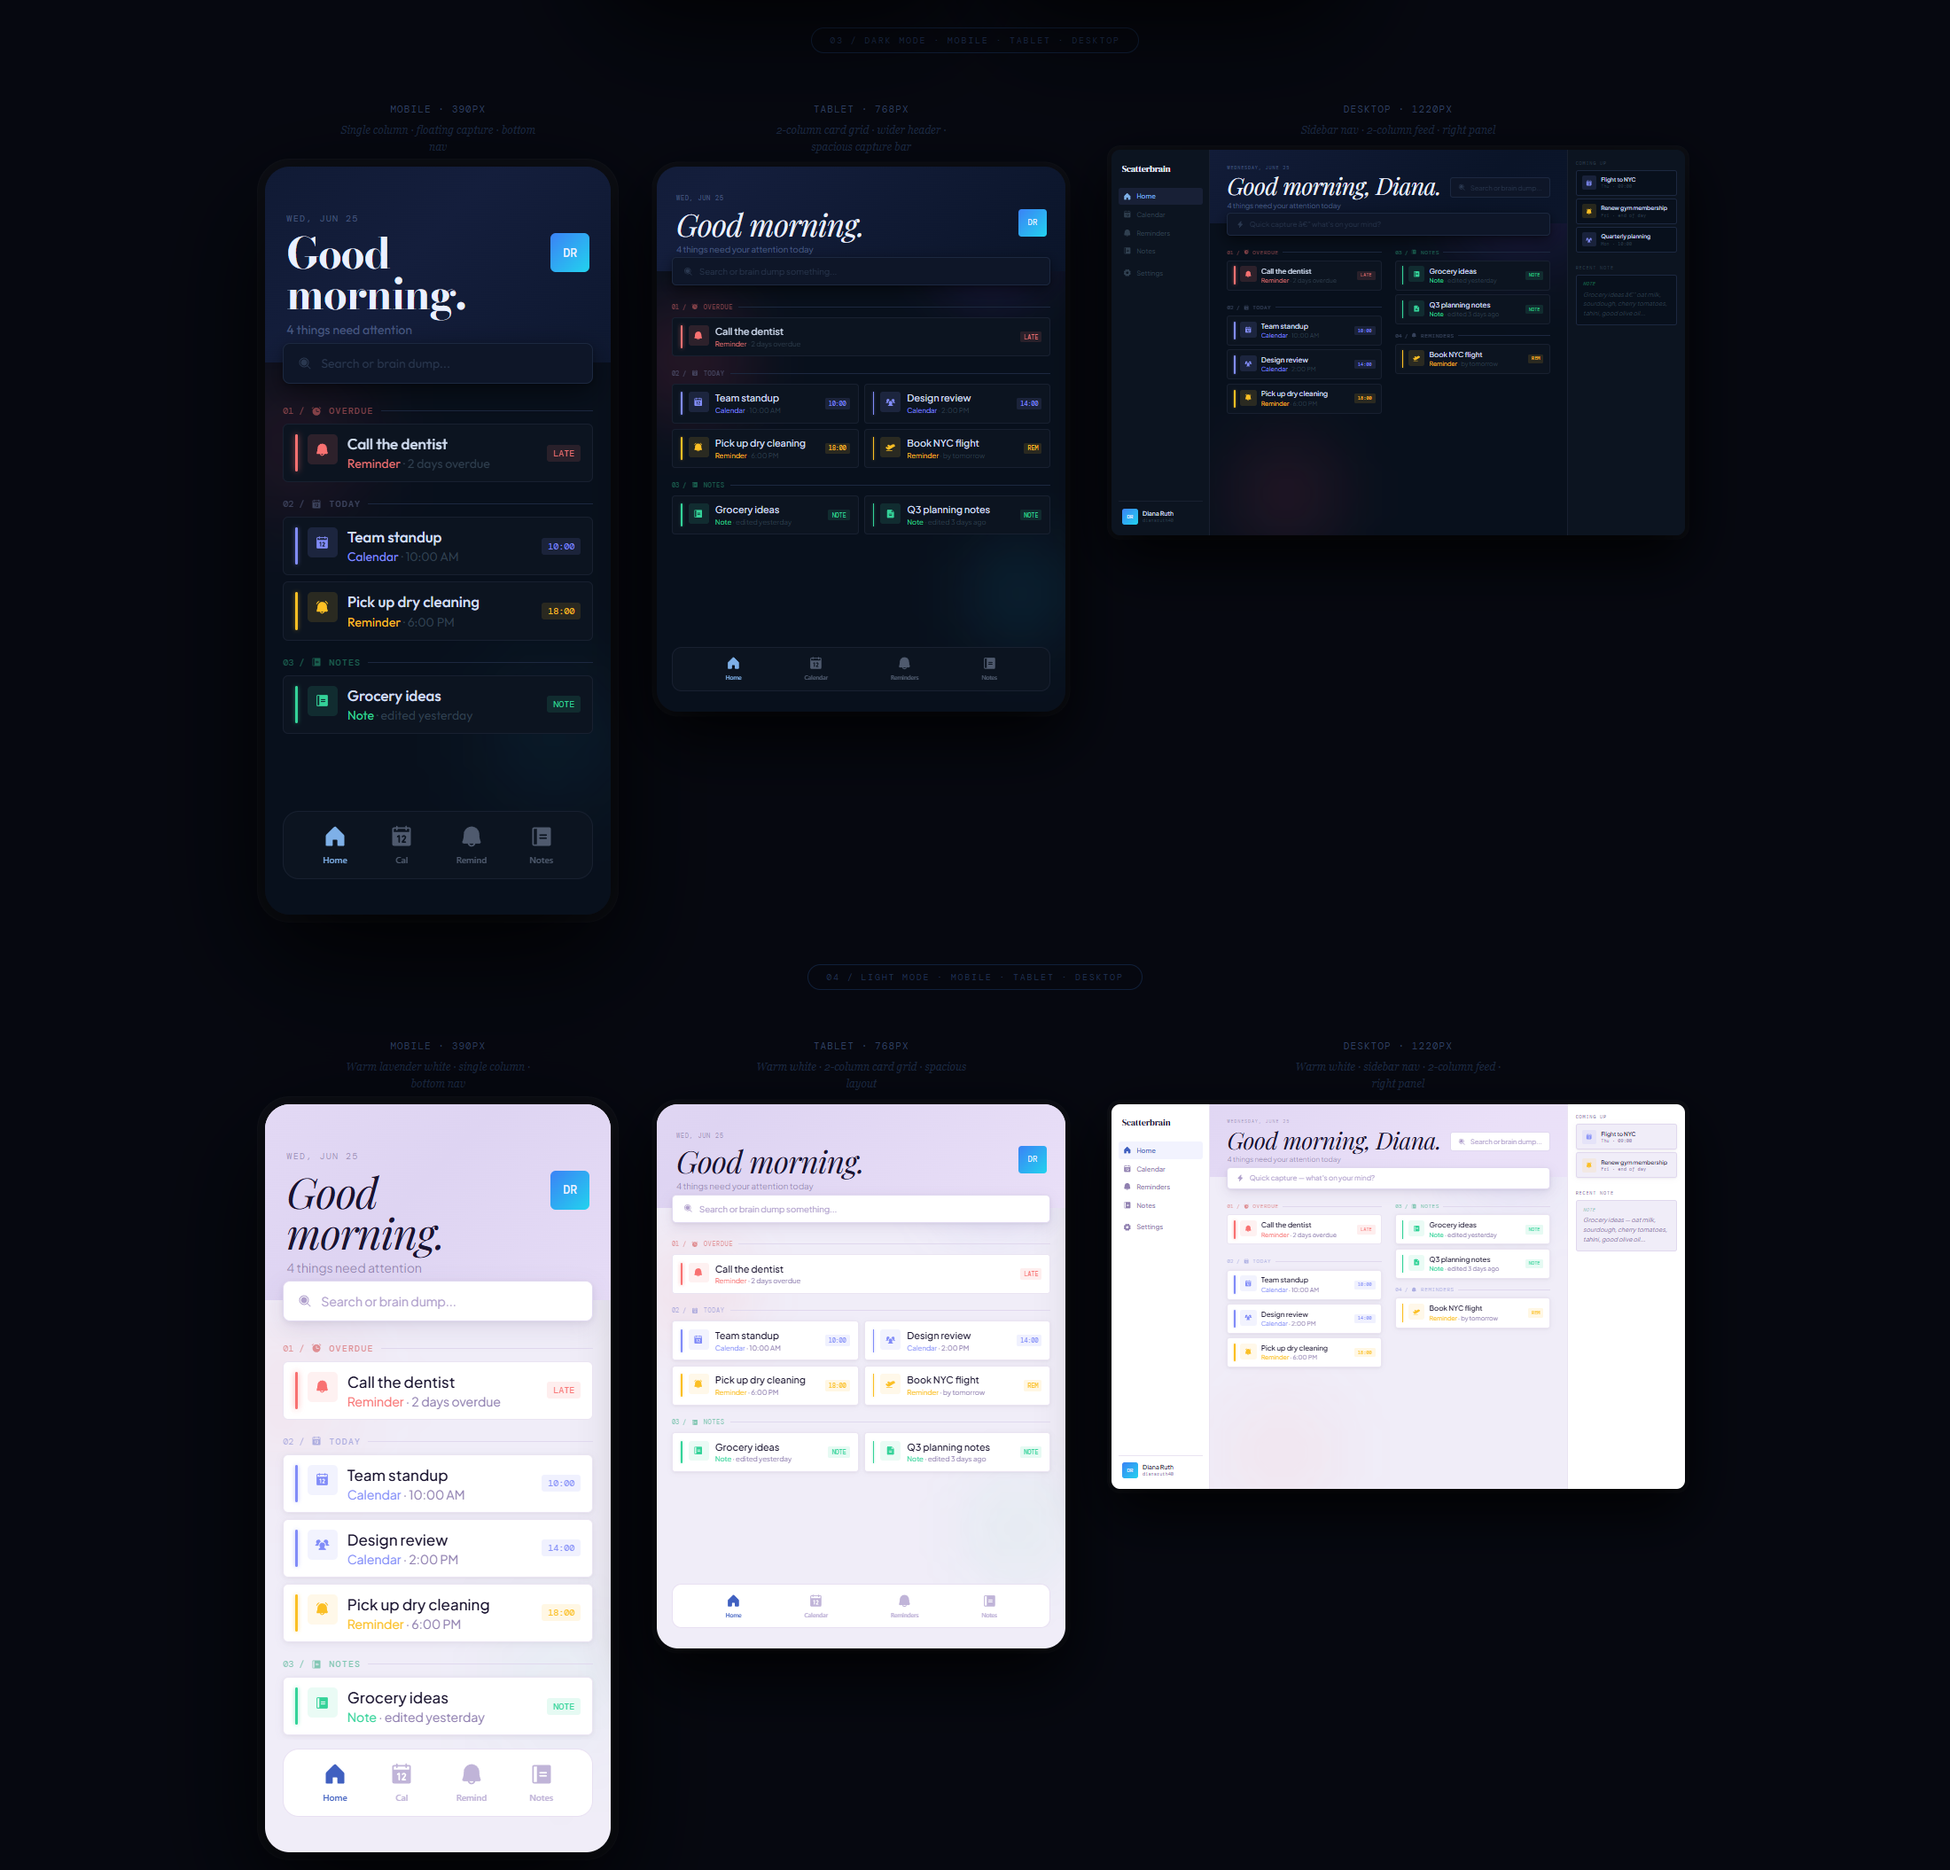
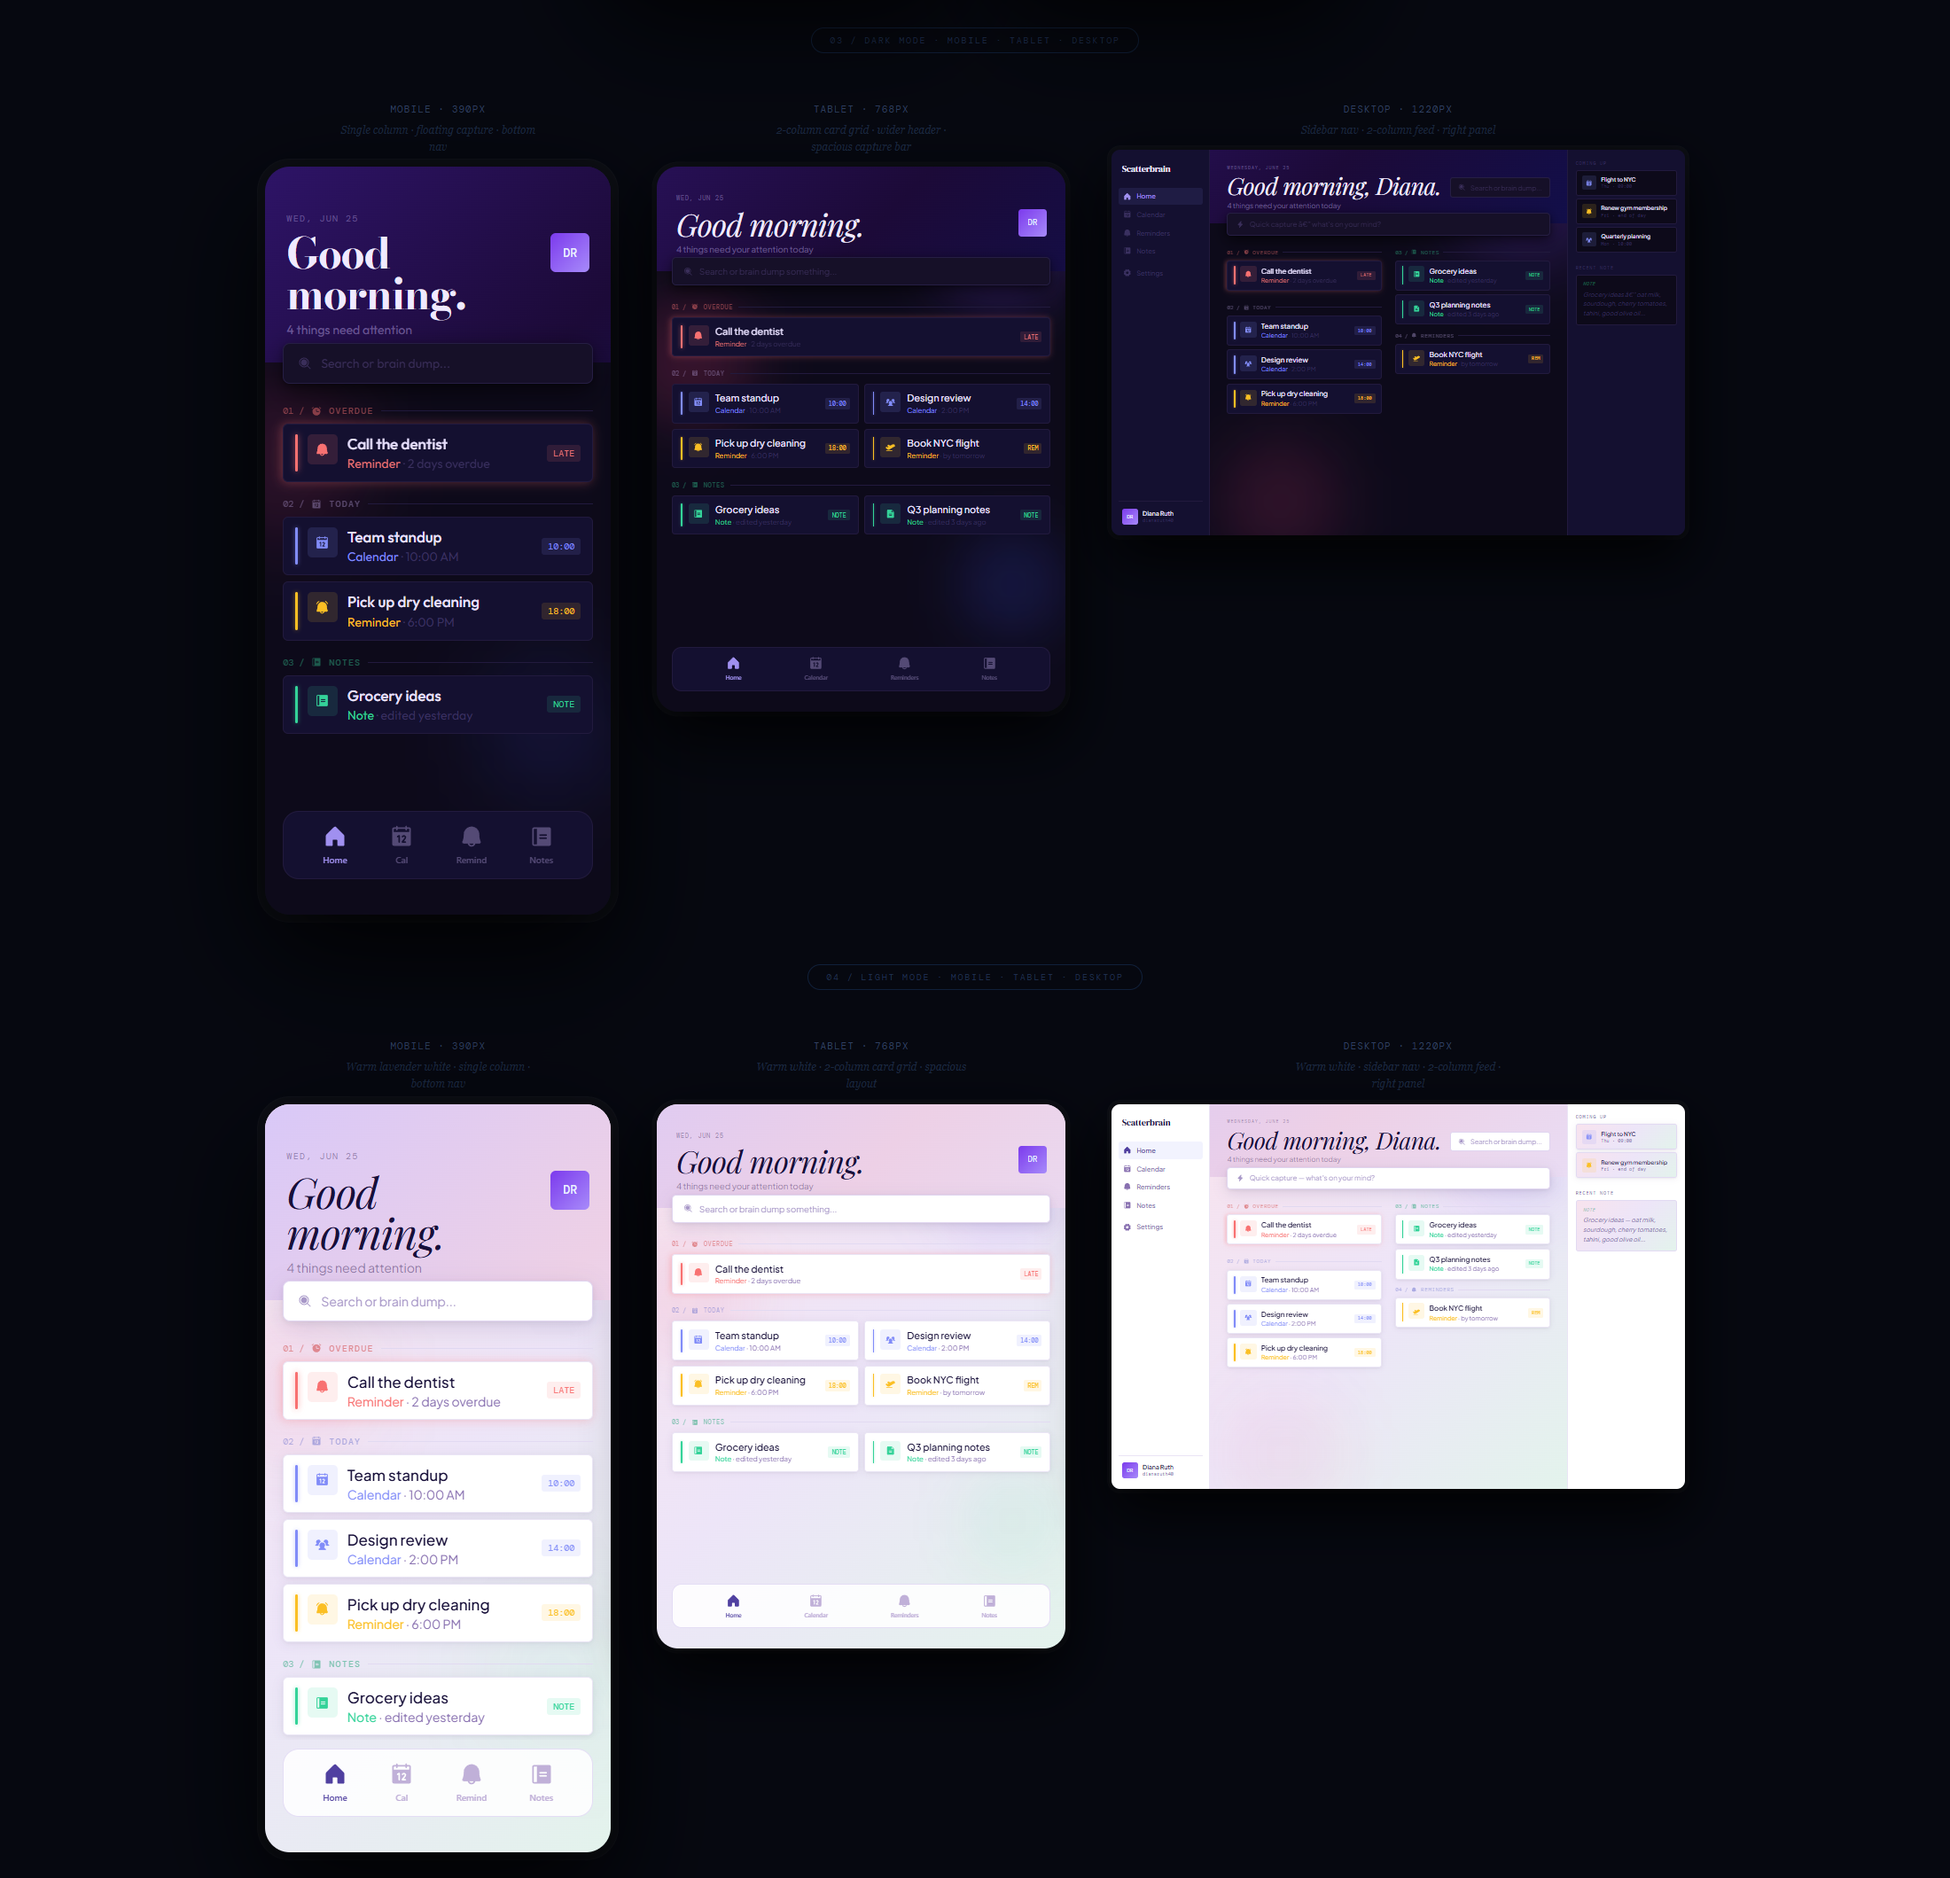
SB-1: Pivot to alt-d color scheme — deep purple dark + gradient light
Swaps both theme palettes to match the alt-d direction: dark mode shifts
from midnight slate to deep purple-black (#0D0A1A) with a violet/indigo
header gradient and vivid purple/rose blobs; light mode gains a 3-stop
rose→lavender→mint gradient background with a more saturated header.
Updates composite renders across all six views.

diff --git a/mockups/directions.html b/mockups/directions.html
@@ -87,80 +87,80 @@ body {
    DARK THEME TOKENS
    â•â•â•â•â•â•â•â•â•â•â•â•â•â•â•â•â•â•â•â•â•â•â•â•â•â•â•â•â•â•â•â•â•â•â•â•â•â•â•â•â•â•â•â•â•â•â•â•â•â•â•â•â•â•â• */
 .dark {
-  --bg:           #08101C;
-  --hdr-a:        #0A1428;
-  --hdr-b:        #141E3C;
-  --hdr-c:        #0E1830;
-  --greeting:     #EAF0FF;
-  --sub:          rgba(140,160,210,.45);
-  --date-c:       rgba(140,160,210,.4);
-  --cap-bg:       #0E1628;
-  --cap-bdr:      #1C2840;
-  --cap-ph:       #2A3850;
-  --card-bg:      #0C1420;
-  --card-bdr:     #182030;
-  --card-title:   #D0DCF0;
-  --card-meta:    #304050;
-  --sec-line:     #1C2840;
+  --bg:           #0D0A1A;
+  --hdr-a:        #1C0A38;
+  --hdr-b:        #2E1468;
+  --hdr-c:        #0E1050;
+  --greeting:     #F0EAFF;
+  --sub:          rgba(180,160,220,.5);
+  --date-c:       rgba(180,160,220,.4);
+  --cap-bg:       #161028;
+  --cap-bdr:      #261E44;
+  --cap-ph:       #3A2E5A;
+  --card-bg:      #141030;
+  --card-bdr:     #221A3E;
+  --card-title:   #E8E0FF;
+  --card-meta:    #3A3060;
+  --sec-line:     #221A3E;
   --sec-ov:       rgba(248,113,113,.5);
-  --sec-td:       rgba(140,160,210,.35);
+  --sec-td:       rgba(180,160,220,.4);
   --sec-em:       rgba(52,211,153,.4);
-  --nav-bg:       #0C1420;
-  --nav-bdr:      #182030;
-  --nav-on:       #7EB0E8;
-  --nav-off:      rgba(160,175,205,.45);
-  --blob1:        rgba(99,60,200,.2);
-  --blob2:        rgba(200,60,90,.14);
-  --blob3:        rgba(30,160,210,.1);
-  --av-a:         #3B82F6;
-  --av-b:         #22D3EE;
-  --input-ico:    #2A3850;
+  --nav-bg:       #141030;
+  --nav-bdr:      #221A3E;
+  --nav-on:       #A090F0;
+  --nav-off:      rgba(180,160,220,.4);
+  --blob1:        rgba(120,60,240,.28);
+  --blob2:        rgba(220,60,120,.2);
+  --blob3:        rgba(60,80,240,.18);
+  --av-a:         #7C3AED;
+  --av-b:         #A78BFA;
+  --input-ico:    #3A2E5A;
   --ib-ov:        rgba(248,113,113,.14);
   --ib-cal:       rgba(129,140,248,.14);
   --ib-rem:       rgba(251,191,36,.13);
   --ib-note:      rgba(52,211,153,.13);
   --card-shadow:  none;
-  --cap-shadow:   0 10px 30px rgba(0,0,0,.5), 0 2px 6px rgba(0,0,0,.25);
+  --cap-shadow:   0 10px 30px rgba(0,0,0,.6), 0 2px 6px rgba(0,0,0,.3);
 }
 
 /* â•â•â•â•â•â•â•â•â•â•â•â•â•â•â•â•â•â•â•â•â•â•â•â•â•â•â•â•â•â•â•â•â•â•â•â•â•â•â•â•â•â•â•â•â•â•â•â•â•â•â•â•â•â•â•
    LIGHT THEME TOKENS
    â•â•â•â•â•â•â•â•â•â•â•â•â•â•â•â•â•â•â•â•â•â•â•â•â•â•â•â•â•â•â•â•â•â•â•â•â•â•â•â•â•â•â•â•â•â•â•â•â•â•â•â•â•â•â• */
 .light {
-  --bg:           #F0EDF8;
-  --hdr-a:        #EAE0F8;
-  --hdr-b:        #DED4F2;
-  --hdr-c:        #EAE4F8;
-  --greeting:     #1A1430;
-  --sub:          rgba(80,60,120,.5);
-  --date-c:       rgba(80,60,120,.45);
+  --bg:           linear-gradient(135deg, #F8E3EE 0%, #EDE5F8 50%, #E3F3EC 100%);
+  --hdr-a:        #EDD0E6;
+  --hdr-b:        #D8C8F8;
+  --hdr-c:        #E8E0F8;
+  --greeting:     #18103A;
+  --sub:          rgba(60,40,100,.5);
+  --date-c:       rgba(60,40,100,.45);
   --cap-bg:       #FFFFFF;
-  --cap-bdr:      #E0D8F0;
-  --cap-ph:       #B0A0CC;
+  --cap-bdr:      #E0D5F0;
+  --cap-ph:       #A898C8;
   --card-bg:      #FFFFFF;
-  --card-bdr:     #EAE4F2;
-  --card-title:   #1A1430;
-  --card-meta:    #9080B0;
-  --sec-line:     #E0D8EE;
+  --card-bdr:     #EAE5F5;
+  --card-title:   #18103A;
+  --card-meta:    #8870B0;
+  --sec-line:     #E2DAF2;
   --sec-ov:       rgba(210,70,70,.55);
   --sec-td:       rgba(90,100,200,.45);
   --sec-em:       rgba(20,160,110,.5);
-  --nav-bg:       #FFFFFF;
-  --nav-bdr:      #E8E0F2;
-  --nav-on:       #4060C0;
-  --nav-off:      #C0B4D8;
-  --blob1:        rgba(129,140,248,.09);
-  --blob2:        rgba(248,113,113,.07);
-  --blob3:        rgba(52,211,153,.06);
-  --av-a:         #3B82F6;
-  --av-b:         #22D3EE;
-  --input-ico:    #B0A0CC;
-  --ib-ov:        rgba(248,113,113,.1);
-  --ib-cal:       rgba(129,140,248,.1);
-  --ib-rem:       rgba(251,191,36,.1);
-  --ib-note:      rgba(52,211,153,.1);
-  --card-shadow:  0 2px 12px rgba(80,60,120,.06), 0 1px 3px rgba(0,0,0,.04);
-  --cap-shadow:   0 8px 24px rgba(80,60,120,.12), 0 2px 6px rgba(0,0,0,.06);
+  --nav-bg:       rgba(255,255,255,.88);
+  --nav-bdr:      #E4DDF5;
+  --nav-on:       #5040A0;
+  --nav-off:      #C0B0D8;
+  --blob1:        rgba(140,100,240,.12);
+  --blob2:        rgba(240,100,140,.1);
+  --blob3:        rgba(60,200,140,.08);
+  --av-a:         #7C3AED;
+  --av-b:         #A78BFA;
+  --input-ico:    #A898C8;
+  --ib-ov:        rgba(248,113,113,.12);
+  --ib-cal:       rgba(129,140,248,.12);
+  --ib-rem:       rgba(251,191,36,.12);
+  --ib-note:      rgba(52,211,153,.12);
+  --card-shadow:  0 2px 14px rgba(60,40,100,.08), 0 1px 3px rgba(0,0,0,.04);
+  --cap-shadow:   0 8px 28px rgba(60,40,100,.14), 0 2px 6px rgba(0,0,0,.06);
 }
 
 /* â•â•â•â•â•â•â•â•â•â•â•â•â•â•â•â•â•â•â•â•â•â•â•â•â•â•â•â•â•â•â•â•â•â•â•â•â•â•â•â•â•â•â•â•â•â•â•â•â•â•â•â•â•â•â•
